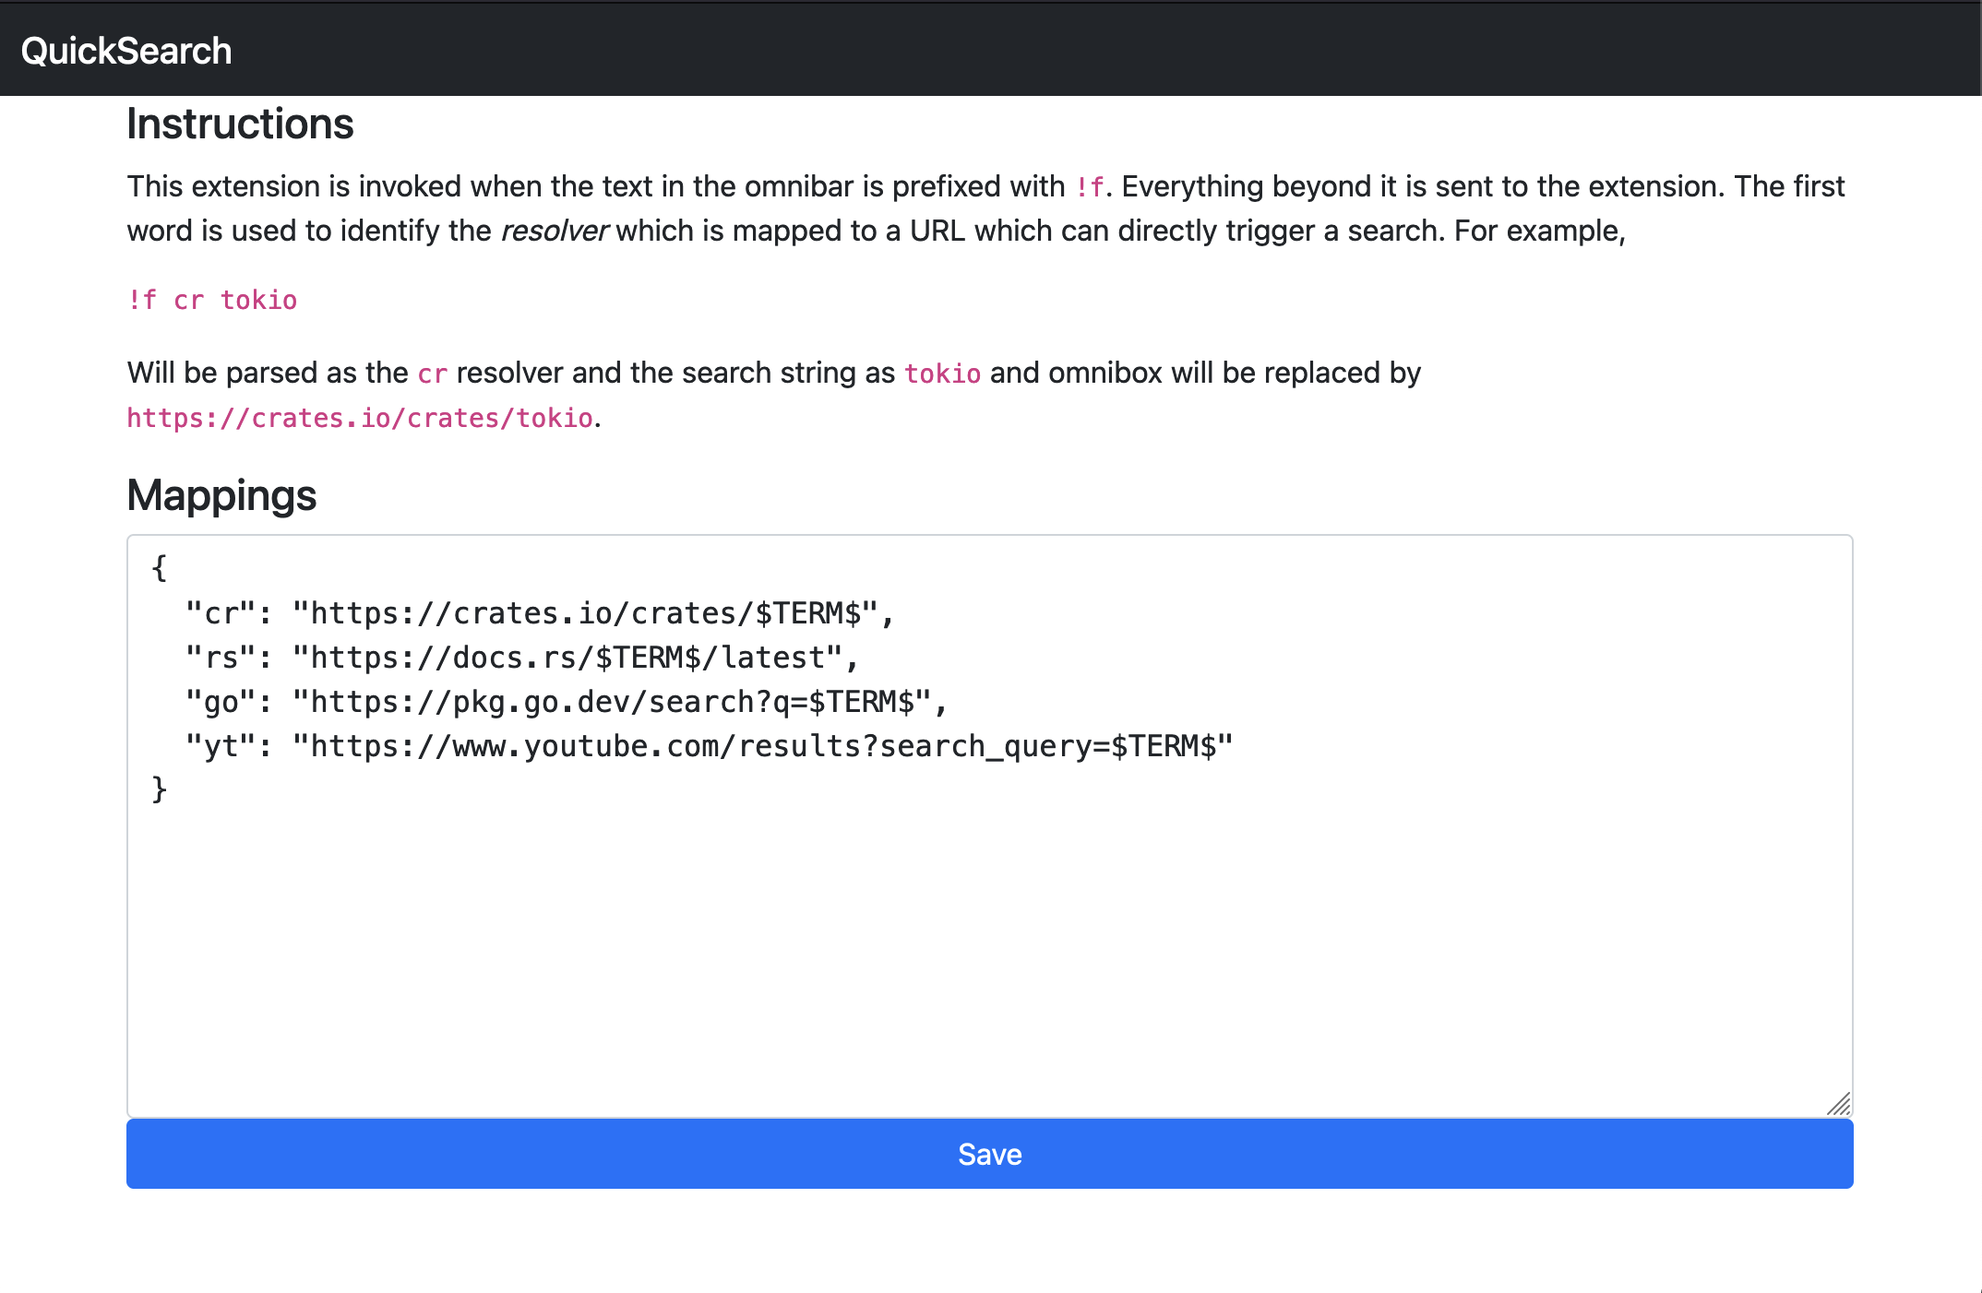
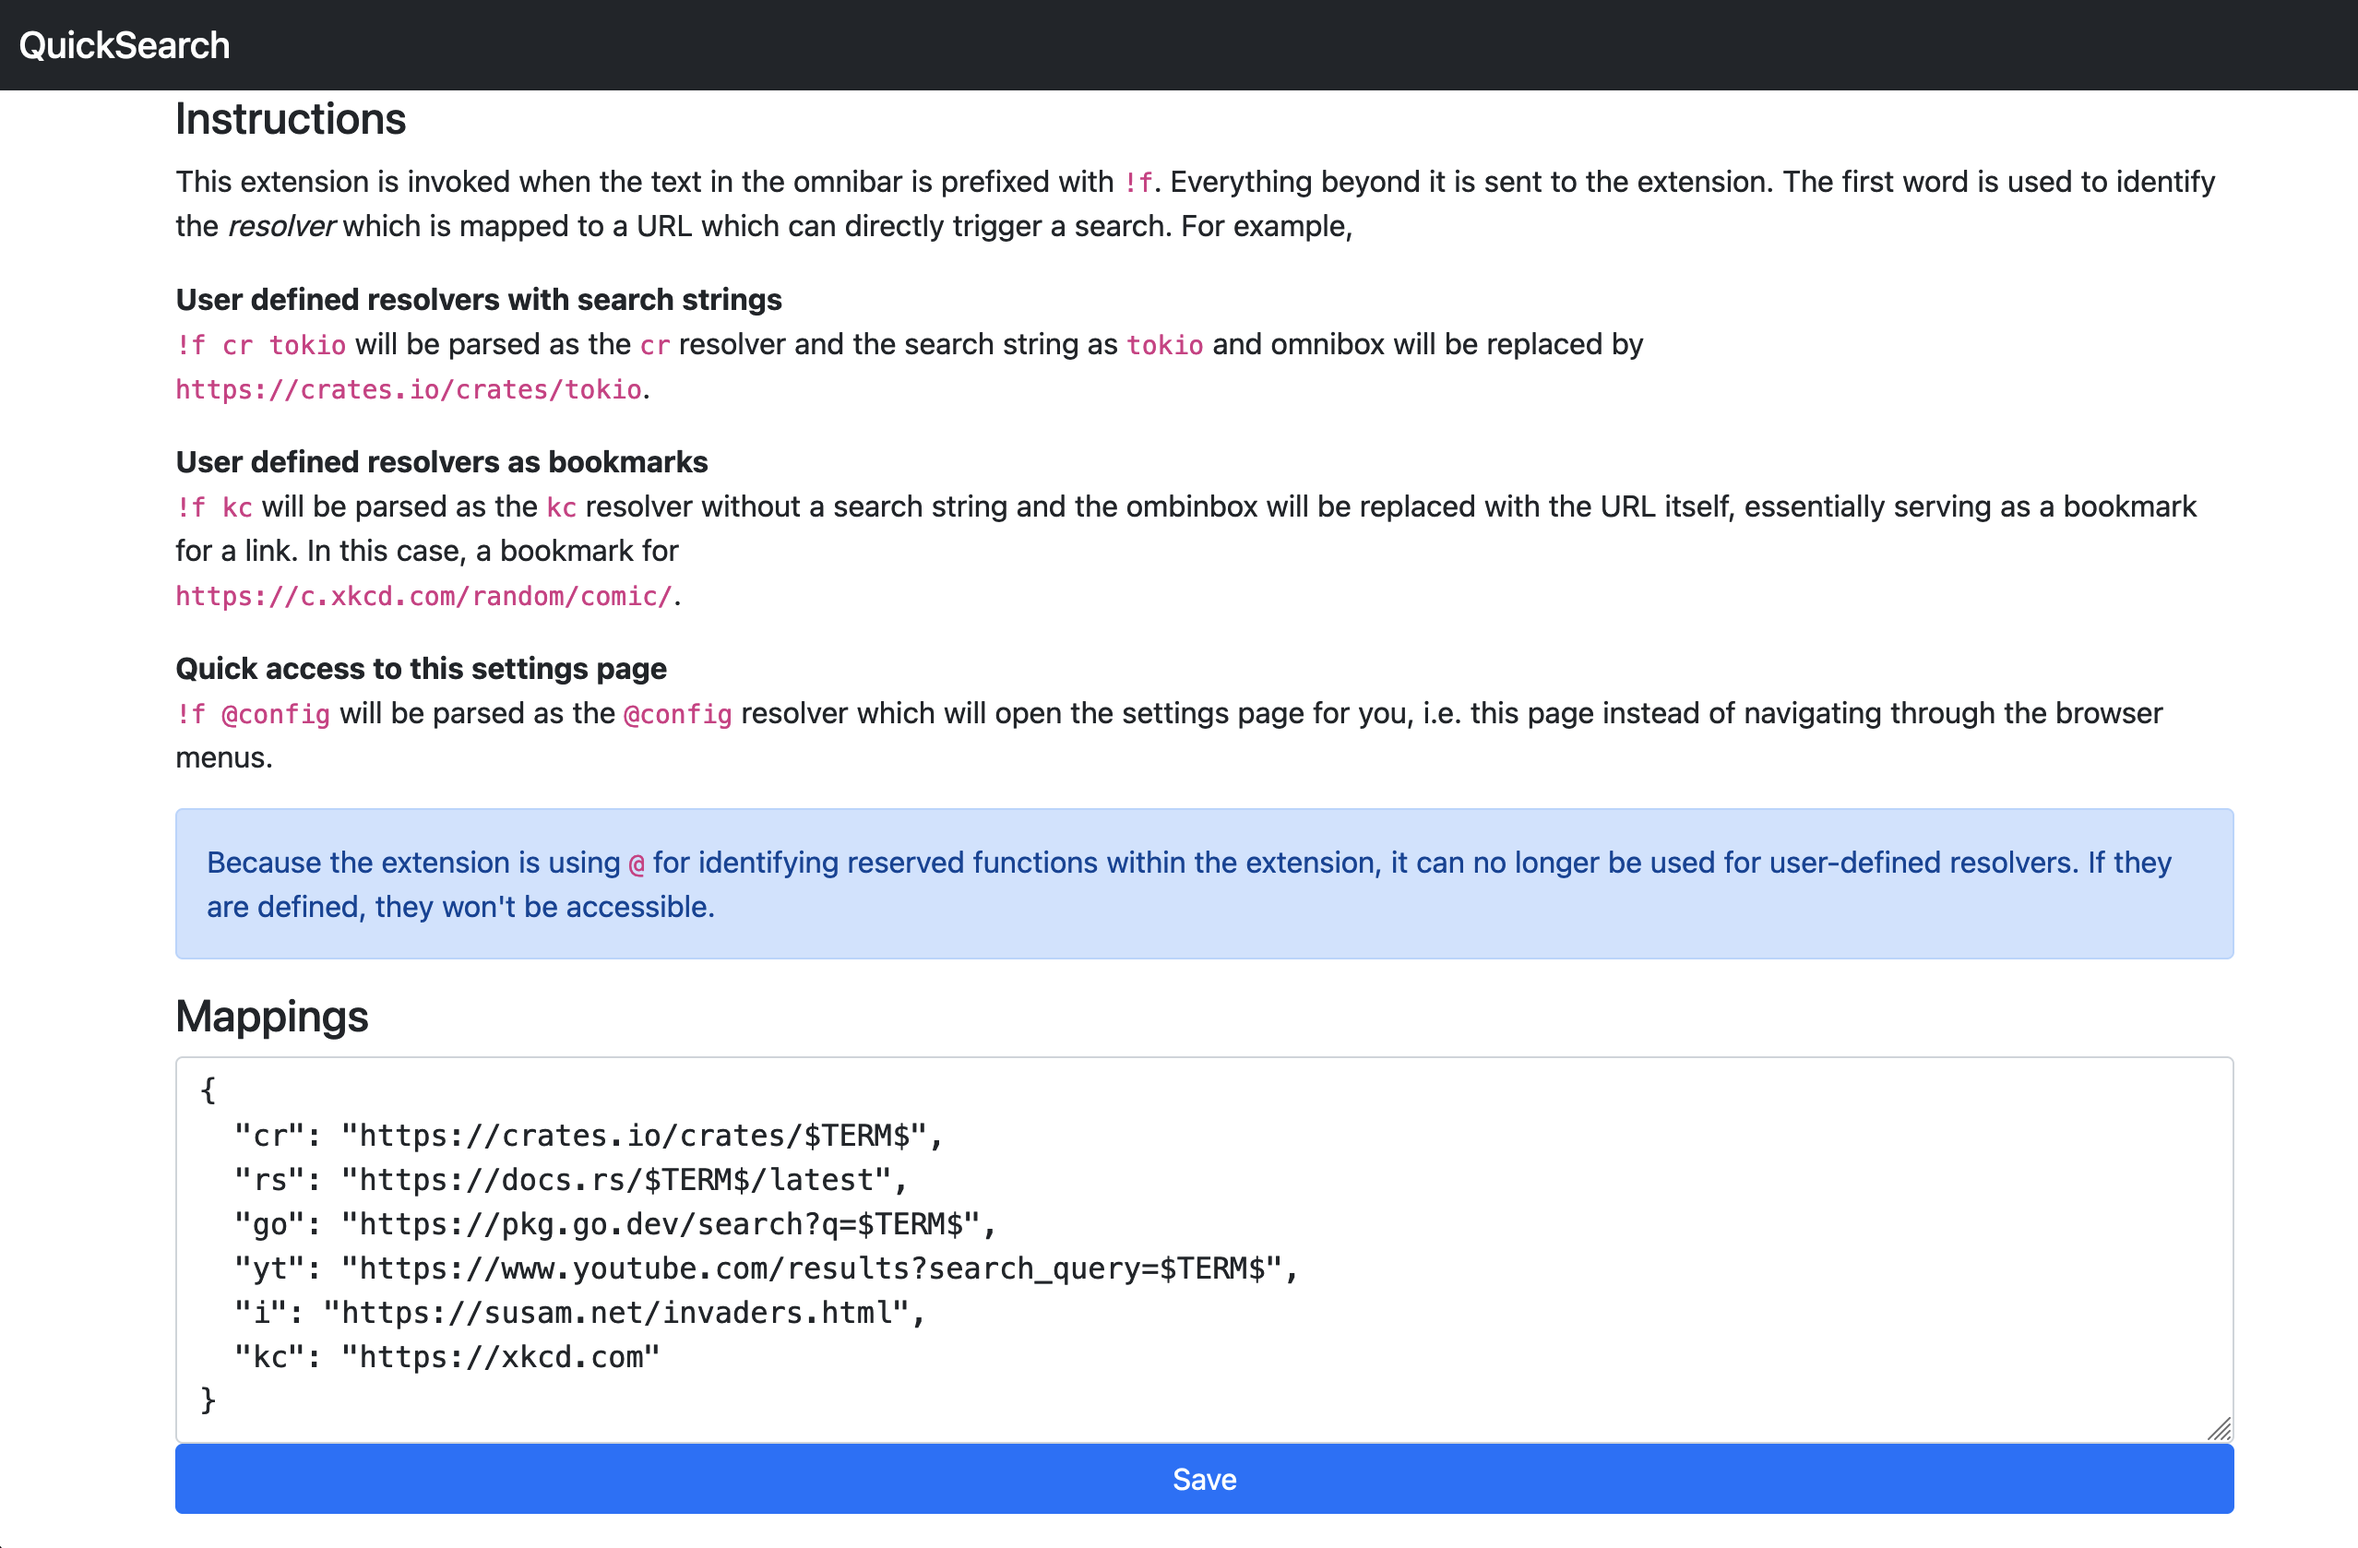
Add only-key option; Add @config key
For some use cases (bookmarking), the key does not require to have a
value which was considered as bad input until this PR. This PR adds the
ability to call a shortcut without a value. In this case the $TERM$ will
be replaced by an empty string.

Add @config key which will open the preferences page for the extension.

Update README and settings page to reflect on the new features and
examples.

Changed region(s): [[0.0, 0.0, 1.0, 0.6748], [0.0624, 0.7054, 0.9669, 0.9815], [0.6238, 0.4601, 0.9046, 0.4907]]

diff --git a/quicksearch.js b/quicksearch.js
@@ -1,14 +1,34 @@
+let runtime = browser.runtime;
+
 browser.omnibox.setDefaultSuggestion({
     description: "Find what you need faster with !f"
 });
 
-const __placeholder__ = "$TERM$";
+const __placeholder = "$TERM$";
+const __key_reserve_prefix = '@';
+
 const __default_resolvers = {
     "cr": "https://crates.io/crates/$TERM$",
     "rs": "https://docs.rs/$TERM$/latest",
     "go": "https://pkg.go.dev/search?q=$TERM$",
-    "yt": "https://www.youtube.com/results?search_query=$TERM$"
+    "yt": "https://www.youtube.com/results?search_query=$TERM$",
+    "kc": "https://c.xkcd.com/random/comic/"
 };
+
+// The reserved keys dictionary contains the functions to be executed against
+// the keywords. At this time, they are not accepting any args which can be
+// extended in the future where if the key is a reserved key, then all tokens
+// after that will be sent in as the argument. for example,
+//
+// !f @config foo bar baz
+// __reserved_keys['config']('foo bar baz')
+//
+// It will be upto the function to decide what to do with the unparsed input.
+const __reserved_keys = {
+    "settings": runtime.openOptionsPage,
+    "setting": runtime.openOptionsPage,
+    "config": runtime.openOptionsPage
+}
 
 let resolvers = __default_resolvers;
 
@@ -21,7 +41,7 @@ const loadResolvers = function() {
             return;
         }
 
-        // If the resolvers are empty, store the default values.
+        // If the resolvers are empty, store the default values
         browser.storage.local.set({"resolvers": __default_resolvers});
     }, (e) => {
         // Log the error for diagnosis
@@ -58,17 +78,41 @@ browser.omnibox.onInputEntered.addListener((text) => {
 function resolveUrl(text) {
     text = text.trim();
     const delimPos = text.indexOf(" ");
-    if (delimPos == -1) {
-        // return undefined as we don't have anything to do.
+
+    // Define the key as the first token in irrespective of if there is a
+    // replacing value. If the value is empty, the token would represent a
+    // bookmark.
+    let key = text;
+    if (delimPos != -1) {
+        // eg: "rs foo" => key = rs, value = foo
+        key = text.substr(0, delimPos);
+    }
+
+    // Check if the key is reserved
+    if (isReservedKey(key)) {
+        const op = __reserved_keys[key.replace(__key_reserve_prefix, '')];
+        if (op !== undefined && typeof(op) === 'function') {
+            // Call the function against the reserved keyword
+            op();
+        }
         return;
     }
 
-    // eg: "rs foo" => key = rs, value = foo
-    const key = text.substr(0, delimPos);
-
     const urlTemplate = resolvers[key];
     if (urlTemplate !== undefined) {
-        const value = text.substr(delimPos + 1);
-        return urlTemplate.replace(__placeholder__, value);
+        const value = delimPos == -1 ? '' : text.substr(delimPos + 1);
+        return urlTemplate.replace(__placeholder, value);
     }
+}
+
+function isReservedKey(key) {
+    if (key.length == 0) {
+        return false;
+    }
+
+    if (!key.startsWith(__key_reserve_prefix)) {
+        return false;
+    }
+
+    return true;
 }

diff --git a/settings/index.html b/settings/index.html
@@ -26,12 +26,34 @@
         to a URL which can directly trigger a search. For example,
       </p>
 
-      <p><code>!f cr tokio</code></p>
-      <p>
-        Will be parsed as the <code>cr</code> resolver
+      <strong>User defined resolvers with search strings</strong>
+      <p><code>!f cr tokio</code>
+        will be parsed as the <code>cr</code> resolver
         and the search string as <code>tokio</code> and omnibox will be replaced
         by <br><code>https://crates.io/crates/tokio</code>.
       </p>
+
+      <strong>User defined resolvers as bookmarks</strong>
+      <p><code>!f kc</code>
+        will be parsed as the <code>kc</code> resolver
+        without a search string and the ombinbox will be replaced with the URL
+        itself, essentially serving as a bookmark for a link. In this case, a
+        bookmark for
+        <br><code>https://c.xkcd.com/random/comic/</code>.
+      </p>
+
+      <strong>Quick access to this settings page</strong>
+      <p><code>!f @config</code>
+        will be parsed as the <code>@config</code> resolver which will open the
+        settings page for you, i.e. this page instead of navigating through the
+        browser menus.
+      </p>
+
+      <div class="alert alert-primary" role="alert">
+        Because the extension is using <code>@</code> for identifying reserved
+        functions within the extension, it can no longer be used for
+        user-defined resolvers. If they are defined, they won't be accessible.
+      </div>
 
     </div>
     <div class="container container-fluid">

diff --git a/README.md b/README.md
@@ -12,6 +12,8 @@ extension which implements `!g` style search redirections implemented in
 * [How does it work](#how-does-it-work)
 * [Installation](#installation)
 * [Usage](#usage)
+  * [As a bookmarking tool](#using-as-a-bookmarking-tool)
+  * [Quick access to settings](#quick-access-to-settings)
 * [Configuration](#configuration)
 * [Development on the extension](#development-on-the-extension)
 * [Alternatives](#alternatives)
@@ -47,12 +49,29 @@ are a few aliases. See the [Configuration](#Configuration) section.
 
 ![example](assets/omnibox.png)
 
+### Using as a bookmark tool
+
+You can now use a resolver with no search strings, which would become a
+bookmarking tool. For example,
+```json
+{
+    "kc": "https://c.xkcd.com/random/comic"
+}
+```
+
+In order to use it, `!f kc`.
+
+### Quick access to settings
+
+The extension now supports navigating to the settings using a simple `!f
+@config`.
+
+> Because the extension is using `@` for identifying reserved functions within the extension, it can no longer be used for user-defined resolvers. If they are defined, they won't be accessible.
+
 ## Configuration
 
-Navigate to the Settings > Extension & Themes.
-
-Click the 3 dots and then `Preferences` upon which it should show up the
-configuration page. In the **Mappings** section, you can add your own aliases
+Type `!f @config` in omnibox, voila!
+In the **Mappings** section, you can add your own aliases
 and then click on save.
 
 As an example, if you wanted to add a Wikipedia resolver, you could add
@@ -100,7 +119,7 @@ This project is an attempt to make the omnnibox do a little more!
 - [ ] Ability to find resolvers from the smallest unique prefix. For example,
 `!f w <term>` should invoke the `wiki` resolver if there are no other resolvers
 starting with `w`. Basically a trie based search
-- [ ] Add `!f @settings` to open the settings page directly
+- [x] Add `!f @config` to open the settings page directly
 - [ ] Potentially be useful for any URL manipulation
 - [ ] Intelligent resolvers. For example, If I want to look for the docs for
 [`io.Writer`](https://pkg.go.dev/io#Writer) and I invoke the `go` resolver, it
